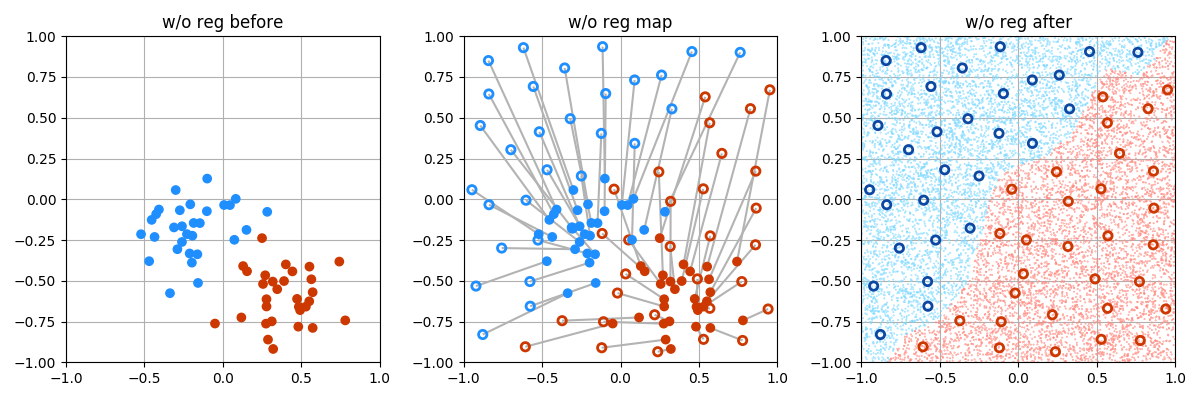
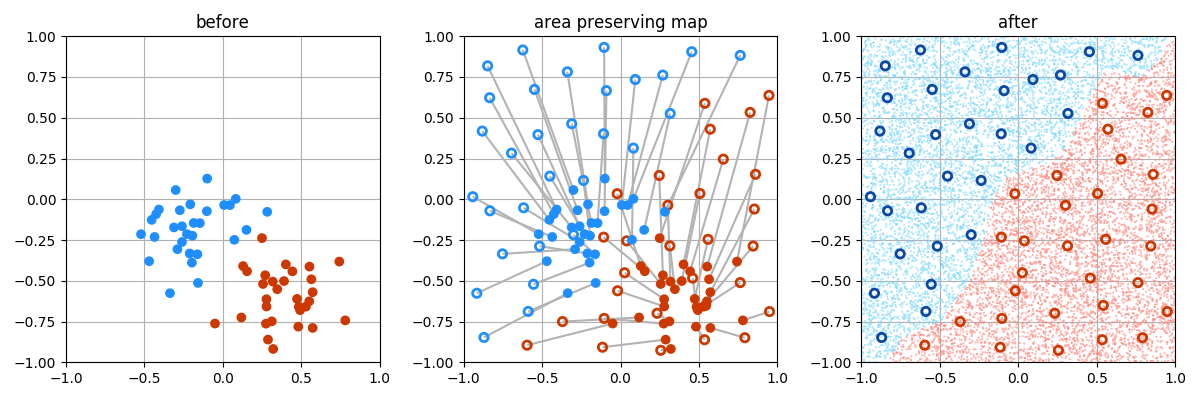
add dimension check; add area-preserving boundary check; enable learning rate decay; other minor updates

diff --git a/demo/demo_potential.py b/demo/demo_potential.py
@@ -1,6 +1,6 @@
 # Regularized Wasserstein Means (RWM)
 # Author: Liang Mi <icemiliang@gmail.com>
-# Date: Jan 6th 2019
+# Date: Jan 18th 2019
 
 """
 ===========================================
@@ -25,7 +25,7 @@ import utils as vot
 
 # ----- set up WM ------ #
 ot = Vot()
-ot.import_data_file('data/p.csv','data/e.csv')
+ot.import_data_from_file('data/p.csv','data/e.csv')
 ot.setup(max_iter_p=1, max_iter_h=1500)
 
 # ----- plot before ----- #
@@ -39,6 +39,7 @@ plt.scatter(ot.e_coor[:,0], ot.e_coor[:,1], marker='.', color=vot.color_light_gr
 plt.scatter(p_coor_before[:,0], p_coor_before[:,1], marker='o', color=cp, zorder=3)
 
 # ------- run WM -------- #
+print("\n running Wasserstein clustering... \n")
 ot.cluster(0) # 0: w/o regularization
 
 # ------ plot map ------- #
@@ -65,17 +66,18 @@ plt.scatter(p_coor_after[:,0], p_coor_after[:,1], marker='o', facecolors='none',
 # -------------------------------------- #
 
 ot_reg = Vot()
-ot_reg.import_data_file('data/p.csv','data/e.csv')
+ot_reg.import_data_from_file('data/p.csv','data/e.csv')
 ot_reg.setup(max_iter_p = 5, max_iter_h = 1500)
 
 # ----- plot before ----- #
 cp = [vot.color_blue, vot.color_red]
 cp = [cp[label] for index,label in np.ndenumerate(ot_reg.p_label)]
-plt.subplot(234); plt.xlim(-1,1); plt.ylim(-1,1); plt.grid(True); plt.title('w reg before')
+plt.subplot(234); plt.xlim(-1,1); plt.ylim(-1,1); plt.grid(True); plt.title('w/ reg before')
 plt.scatter(ot_reg.e_coor[:,0], ot_reg.e_coor[:,1], marker='.', color=vot.color_light_grey, zorder=2)
 plt.scatter(p_coor_before[:,0], p_coor_before[:,1], marker='o', color=cp, zorder=3)
 
 # ------- run RWM ------- #
+print("\n running regularized Wasserstein clustering... \n")
 ot_reg.cluster(reg_type = 'potential', reg = 0.01)
 
 # ------- run OT ------- #
@@ -90,7 +92,7 @@ ot_reg.cluster()
 p_coor_after = np.copy(ot_reg.p_coor)
 map = [[tuple(p1),tuple(p2)] for p1,p2 in zip(p_coor_before.tolist(), p_coor_after.tolist())]
 lines = mc.LineCollection(map, colors=vot.color_light_grey)
-fig235 = plt.subplot(235); plt.xlim(-1,1); plt.ylim(-1,1); plt.grid(True); plt.title('w reg map')
+fig235 = plt.subplot(235); plt.xlim(-1,1); plt.ylim(-1,1); plt.grid(True); plt.title('w/ reg map')
 fig235.add_collection(lines)
 plt.scatter(p_coor_before[:,0], p_coor_before[:,1], marker='o', color=cp,zorder=3)
 plt.scatter(p_coor_after[:,0], p_coor_after[:,1], marker='o', facecolors='none', linewidth=2, color=cp, zorder=2)
@@ -101,7 +103,7 @@ ce = [vot.color_light_blue, vot.color_light_red]
 ce = [ce[label] for index,label in np.ndenumerate(le)]
 cp = [vot.color_dark_blue, vot.color_red]
 cp = [cp[label] for index,label in np.ndenumerate(ot_reg.p_label)]
-plt.subplot(236); plt.xlim(-1,1); plt.ylim(-1,1); plt.grid(True); plt.title('w reg after')
+plt.subplot(236); plt.xlim(-1,1); plt.ylim(-1,1); plt.grid(True); plt.title('w/ reg after')
 plt.scatter(ot.e_coor[:,0], ot_reg.e_coor[:,1], marker='.', color=ce, zorder=2)
 plt.scatter(p_coor_after[:,0], p_coor_after[:,1], marker='o', facecolors='none', linewidth=2, color=cp, zorder=3)
 

diff --git a/demo/demo_area_preserve.py b/demo/demo_area_preserve.py
@@ -1,6 +1,6 @@
 # Regularized Wasserstein Means (RWM)
 # Author: Liang Mi <icemiliang@gmail.com>
-# Date: Jan 17th 2019
+# Date: Jan 18th 2019
 
 """
 ===============================================================
@@ -11,6 +11,9 @@ This demo shows area preserving mapping through optimal transportation.
 The total area is assumed to be one. We randomly sample a square and
 count the samples to approximate the area. In this way, we avoid computing
 convex hulls.
+
+For now, PyVot assumes that the range in each dimension is (-1,1).
+
 """
 
 from vot import *
@@ -22,7 +25,7 @@ import time
 # ----- set up ot ------ #
 ot = VotAreaPreserve()
 ot.import_data_from_file('data/p.csv')
-ot.setup(max_iter=5000, ratio=200, rate=0.2)
+ot.setup(max_iter=5000, ratio=200, rate=0.2, dim = 2)
 
 # ----- plot before ----- #
 p_coor_before = np.copy(ot.p_coor)
@@ -30,7 +33,7 @@ plt.figure(figsize=(12,4))
 
 cp = [vot.color_blue, vot.color_red]
 cp = [cp[label] for index,label in np.ndenumerate(ot.p_label)]
-plt.subplot(131); plt.xlim(-1,1); plt.ylim(-1,1); plt.grid(True); plt.title('w/o reg before')
+plt.subplot(131); plt.xlim(-1,1); plt.ylim(-1,1); plt.grid(True); plt.title('before')
 plt.scatter(p_coor_before[:,0], p_coor_before[:,1], marker='o', color=cp, zorder=3)
 
 # ----- run area preserving mapping ------ #
@@ -43,7 +46,7 @@ print(tock-tick)
 p_coor_after = np.copy(ot.p_coor)
 map = [[tuple(p1),tuple(p2)] for p1,p2 in zip(p_coor_before.tolist(), p_coor_after.tolist())]
 lines = mc.LineCollection(map, colors=vot.color_light_grey)
-fig232 = plt.subplot(132); plt.xlim(-1,1); plt.ylim(-1,1); plt.grid(True); plt.title('w/o reg map')
+fig232 = plt.subplot(132); plt.xlim(-1,1); plt.ylim(-1,1); plt.grid(True); plt.title('area preserving map')
 fig232.add_collection(lines)
 plt.scatter(p_coor_before[:,0], p_coor_before[:,1], marker='o', color=cp,zorder=3)
 plt.scatter(p_coor_after[:,0], p_coor_after[:,1], marker='o', facecolors='none', linewidth=2, color=cp, zorder=2)
@@ -54,11 +57,11 @@ ce = [vot.color_light_blue, vot.color_light_red]
 ce = [ce[label] for index,label in np.ndenumerate(le)]
 cp = [vot.color_dark_blue, vot.color_red]
 cp = [cp[label] for index,label in np.ndenumerate(ot.p_label)]
-plt.subplot(133); plt.xlim(-1,1); plt.ylim(-1,1); plt.grid(True); plt.title('w/o reg after')
+plt.subplot(133); plt.xlim(-1,1); plt.ylim(-1,1); plt.grid(True); plt.title('after')
 plt.scatter(ot.e_coor[:,0], ot.e_coor[:,1], marker='.', color=ce, zorder=2, s=0.5)
 plt.scatter(p_coor_after[:,0], p_coor_after[:,1], marker='o', facecolors='none', linewidth=2, color=cp, zorder=3)
 
 # ---- plot and save ---- #
 plt.tight_layout(pad=1.0, w_pad=1.5, h_pad=0.5)
-plt.savefig("ot_area_preserve.png")
+# plt.savefig("ot_area_preserve.png")
 plt.show()

diff --git a/demo/demo_transform.py b/demo/demo_transform.py
@@ -1,6 +1,6 @@
 # Regularized Wasserstein Means (RWM)
 # Author: Liang Mi <icemiliang@gmail.com>
-# Date: Jan 6th 2019
+# Date: Jan 18th 2019
 
 """
 ===========================================
@@ -84,8 +84,6 @@ plt.scatter(p_coor_after[:,0], p_coor_after[:,1], marker='o', facecolors='none',
 # --------- w/ regularization ---------- #
 # -------------------------------------- #
 
-
-
 ot_reg = Vot()
 # ot.import_data_file('data/p.csv','data/e.csv')
 ot_reg.import_data(Xp1, Xe1, yp = yp, ye = ye)
@@ -94,7 +92,7 @@ ot_reg.setup(max_iter_p = 10, max_iter_h = 2000)
 # ----- plot before ----- #
 cp = [vot.color_blue, vot.color_red]
 cp = [cp[label] for index,label in np.ndenumerate(ot_reg.p_label)]
-plt.subplot(234); plt.xlim(xmin,1.5); plt.ylim(ymin,ymax); plt.grid(True); plt.title('w reg before')
+plt.subplot(234); plt.xlim(xmin,1.5); plt.ylim(ymin,ymax); plt.grid(True); plt.title('w/ reg before')
 plt.scatter(ot_reg.e_coor[:,0], ot_reg.e_coor[:,1], marker='.', color=vot.color_light_grey, zorder=2)
 plt.scatter(p_coor_before[:,0], p_coor_before[:,1], marker='o', color=cp, zorder=3)
 
@@ -112,7 +110,7 @@ ot_reg.cluster()
 p_coor_after = np.copy(ot_reg.p_coor)
 map = [[tuple(p1),tuple(p2)] for p1,p2 in zip(p_coor_before.tolist(), p_coor_after.tolist())]
 lines = mc.LineCollection(map, colors=vot.color_light_grey)
-fig235 = plt.subplot(235); plt.xlim(xmin,xmax); plt.ylim(ymin,ymax); plt.grid(True); plt.title('w reg map')
+fig235 = plt.subplot(235); plt.xlim(xmin,xmax); plt.ylim(ymin,ymax); plt.grid(True); plt.title('w/ reg map')
 fig235.add_collection(lines)
 plt.scatter(p_coor_before[:,0], p_coor_before[:,1], marker='o', color=cp,zorder=3)
 plt.scatter(p_coor_after[:,0], p_coor_after[:,1], marker='o', facecolors='none', linewidth=2, color=cp, zorder=2)
@@ -123,7 +121,7 @@ ce = [vot.color_light_blue, vot.color_light_red]
 ce = [ce[label] for index,label in np.ndenumerate(le)]
 cp = [vot.color_dark_blue, vot.color_red]
 cp = [cp[label] for index,label in np.ndenumerate(ot_reg.p_label)]
-plt.subplot(236); plt.xlim(xmin,xmax); plt.ylim(ymin,ymax); plt.grid(True); plt.title('w reg after')
+plt.subplot(236); plt.xlim(xmin,xmax); plt.ylim(ymin,ymax); plt.grid(True); plt.title('w/ reg after')
 plt.scatter(ot_reg.e_coor[:,0], ot_reg.e_coor[:,1], marker='.', color=ce, zorder=2)
 plt.scatter(p_coor_after[:,0], p_coor_after[:,1], marker='o', facecolors='none', linewidth=2, color=cp, zorder=3)
 

diff --git a/vot.py b/vot.py
@@ -1,6 +1,6 @@
 # Variational Wasserstein Clustering (vwc)
 # Author: Liang Mi <icemiliang@gmail.com>
-# Date: Jan 6th 2019
+# Date: Jan 18th 2019
 
 import warnings
 
@@ -19,8 +19,8 @@ class VotAreaPreserve:
             max_iter int: max number of iterations of optimal transportation
             thres float: threshold to break loops
             rate  float: learning rate
-            box   float: length of boundary box edge
-            ratio float: num of e to the num of p
+            ratio float: the ratio of num of e to the num of p
+            dim     int: dimension of the data/space
         """
 
         self.thres = thres
@@ -30,9 +30,14 @@ class VotAreaPreserve:
         self.dim = dim
         self.ratio = ratio
 
-        if not self.dim is np.size(self.p_coor, 1):
-            warnings.warn("Dimension of data does not agree with setting.\n Truncating data...")
+        if self.dim < np.size(self.p_coor, 1):
+            warnings.warn("Dimension of data larger than the setting.\n Truncating data...")
             self.p_coor = self.p_coor[:,0:self.dim]
+        elif self.dim > np.size(self.p_coor, 1):
+            warnings.warn("Dimension of data smaller than the setting.\n Resetting dim...")
+            self.dim = np.size(self.p_coor, 1)
+
+        assert np.amax(self.p_coor) < 1 and np.amin(self.p_coor) > -1, "Input data output boundary (-1, 1)."
 
     def import_data_from_file(self, pfilename, mass = False, label = True):
         """ import data from csv files
@@ -87,8 +92,8 @@ class VotAreaPreserve:
         self.random_sample()
         self.cost_base = cdist(self.p_coor, self.e_coor, 'sqeuclidean')
         for iter in range(self.max_iter):
-            # if iter % 100 == 0:
-                # self.learnrate *= 0.95
+            if iter % 100 == 0:
+                self.learnrate *= 0.95
             if self.update_map(iter): break
         self.update_p()
 

diff --git a/README.md b/README.md
@@ -1,21 +1,19 @@
 # PyVot : Python Variational Optimal Transportation
-This package includes the prototype code for computing variational optimal transportation and Wasserstein clustering.
+This package includes the prototype code for computing Monge's optimal transportation (OT) and Wasserstein clustering.
 
 * Variational Wasserstein clustering in each iteration leverages variational principles [1] to solve optimal transportation. Thus, we name the package PyVot instead of PyVWc for the sake of pronunciation. For computing optimal transportation, simply set the max iteration to one.
+* Monge's OT maps exist in general when one of the distributions is absolutely continuous. 
+In practice, we consider a collection of dense Dirac samples as an approximation.  
 * This program implements gradient descent instead of Newton's method to avoid computing convex hulls so that it can handle high-dimensional data. 
-* The picture below shows the results from original Wasserstein clustering [2] and regularized Wasserstein clustering [3].
-* Below shows two examples.
+* The picture below shows the results from original Wasserstein clustering [2] and regularized Wasserstein clustering [3]. More examples can be found in [demo/](demo/README.md)
 
-python demo_potential.py
-![alt text](data/rwm_potential.png?raw=true)
-python demo_transform.py
-![alt text](data/rwm_transform.png?raw=true)
+![alt text](demo/pics/rwm_potential.png?raw=true)
 
 ## Dependencies
 * Python >= 3.5
 * NumPy >= 1.15.4
 * SciPy >= 1.1.0 (for regularization)
-* scikit-image >= 0.14.1 (for affine transformation)
+* scikit-image >= 0.14.1 (for geometric transformation)
 * Matplotlib >= 3.0.2 (for demo)
 
 ## References

diff --git a/demo/README.md b/demo/README.md
@@ -1,13 +1,21 @@
-##Demo
-We show three examples of using the package. The first one is area preserving mapping. The second and the third come from computing the regularized Wasserstein clustering. 
+## Demo
+
+Below shows some examples of using PyVot. 
+
+#### Area preserving mapping. 
 
 python demo_area_preserve.py
+
 ![alt text](pics/ot_area_preserve.png?raw=true)
 
+#### Domain adaptation through Wasserstein clustering regularized by potential energy.
+
 python demo_potential.py
+
 ![alt text](pics/rwm_potential.png?raw=true)
 
+#### Domain adaptation through Wasserstein clustering regularized by geometric transformation.
+
 python demo_transform.py
+
 ![alt text](pics/rwm_transform.png?raw=true)
-
-
